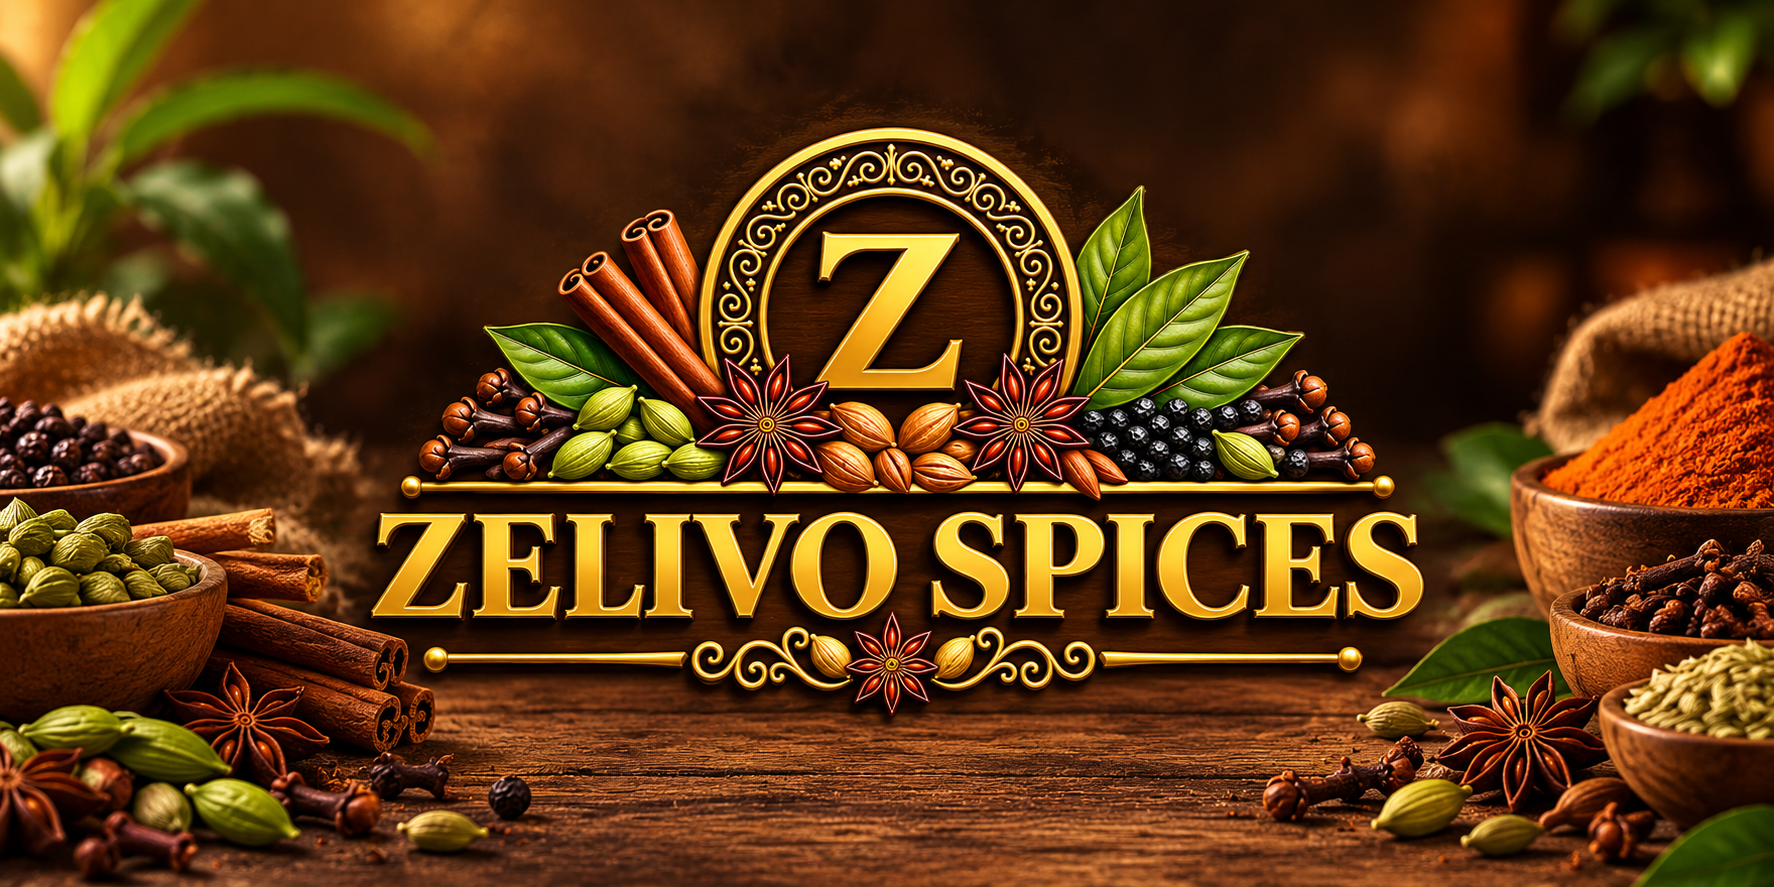
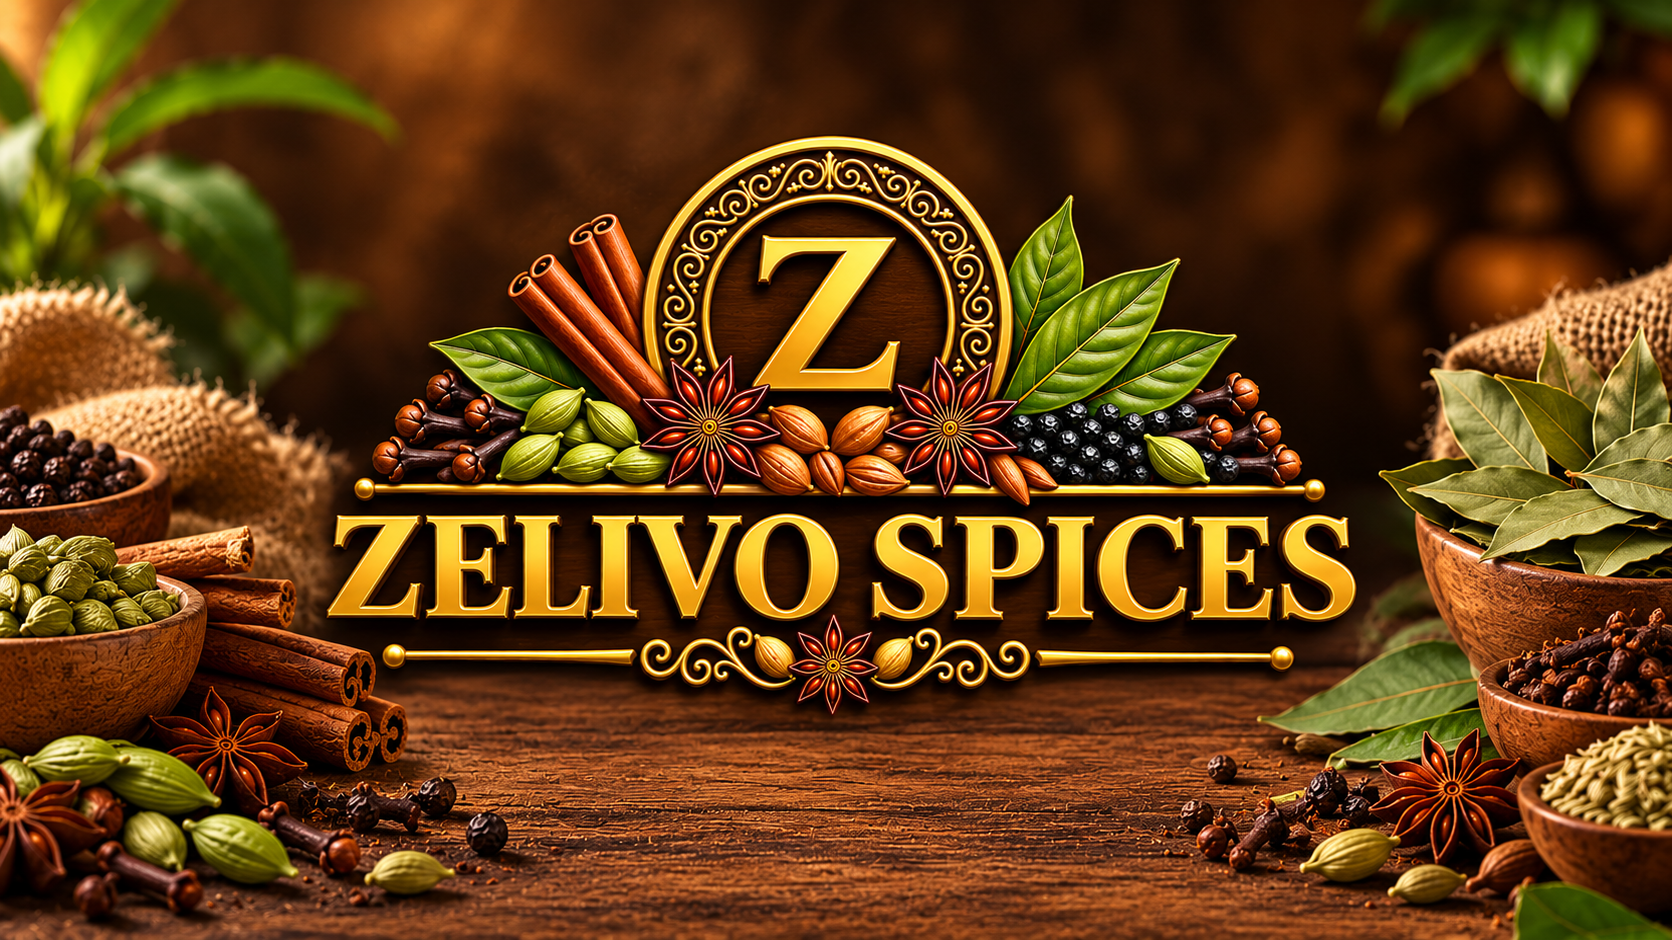
Updated project code

diff --git a/main/templates/base.html b/main/templates/base.html
@@ -201,6 +201,7 @@
                         <li>Black Pepper</li>
                         <li>Cinnamon</li>
                         <li>Cloves</li>
+                        <li>Bay Leaves</li>
                         <li>Garam Masala</li>
                         <li>Gift Boxes</li>
 
